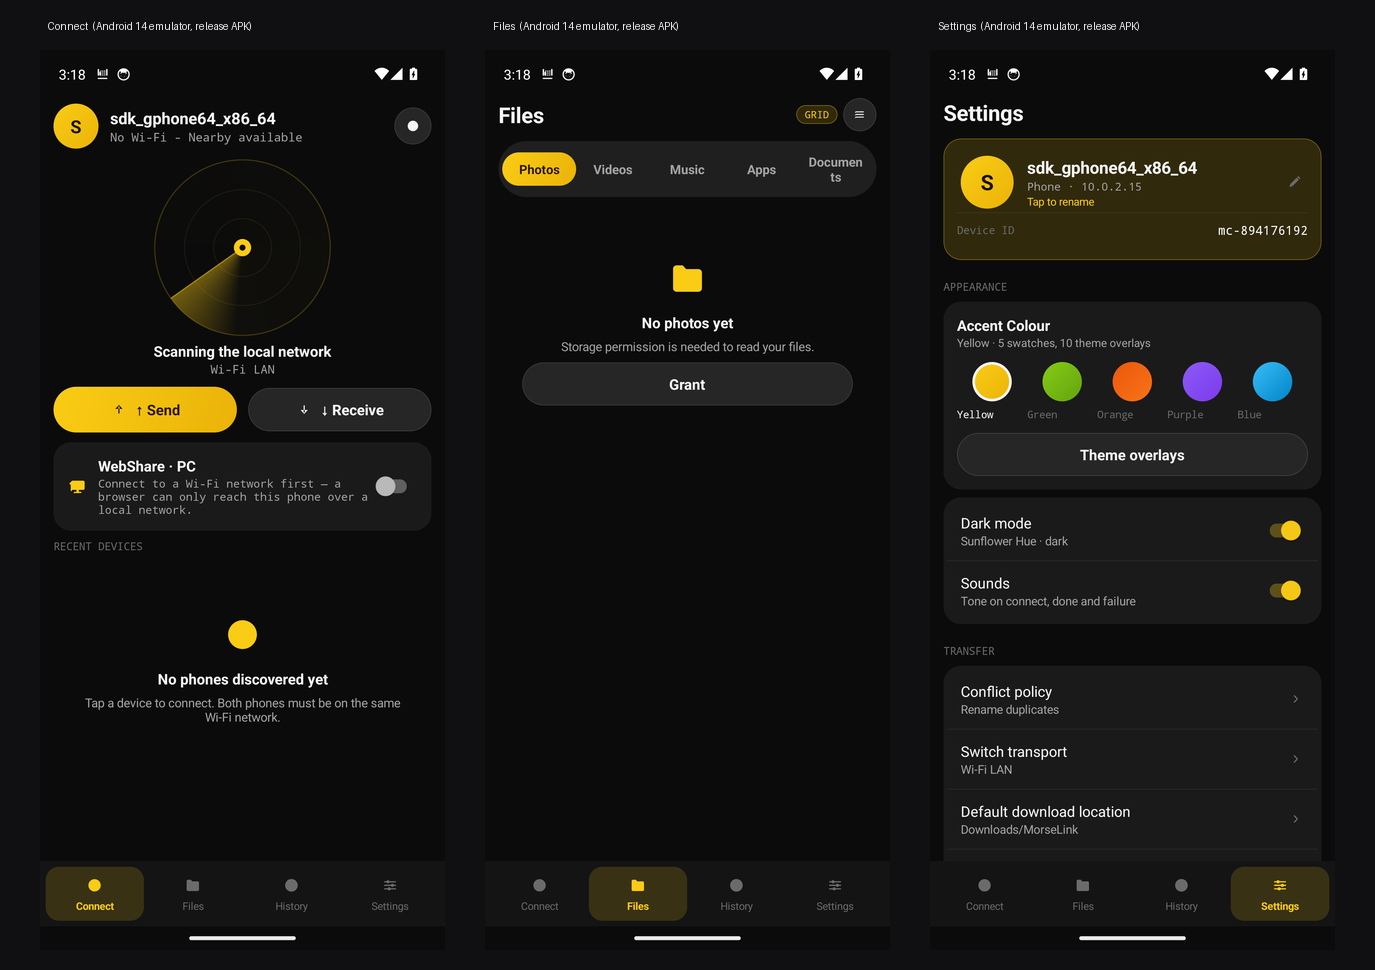
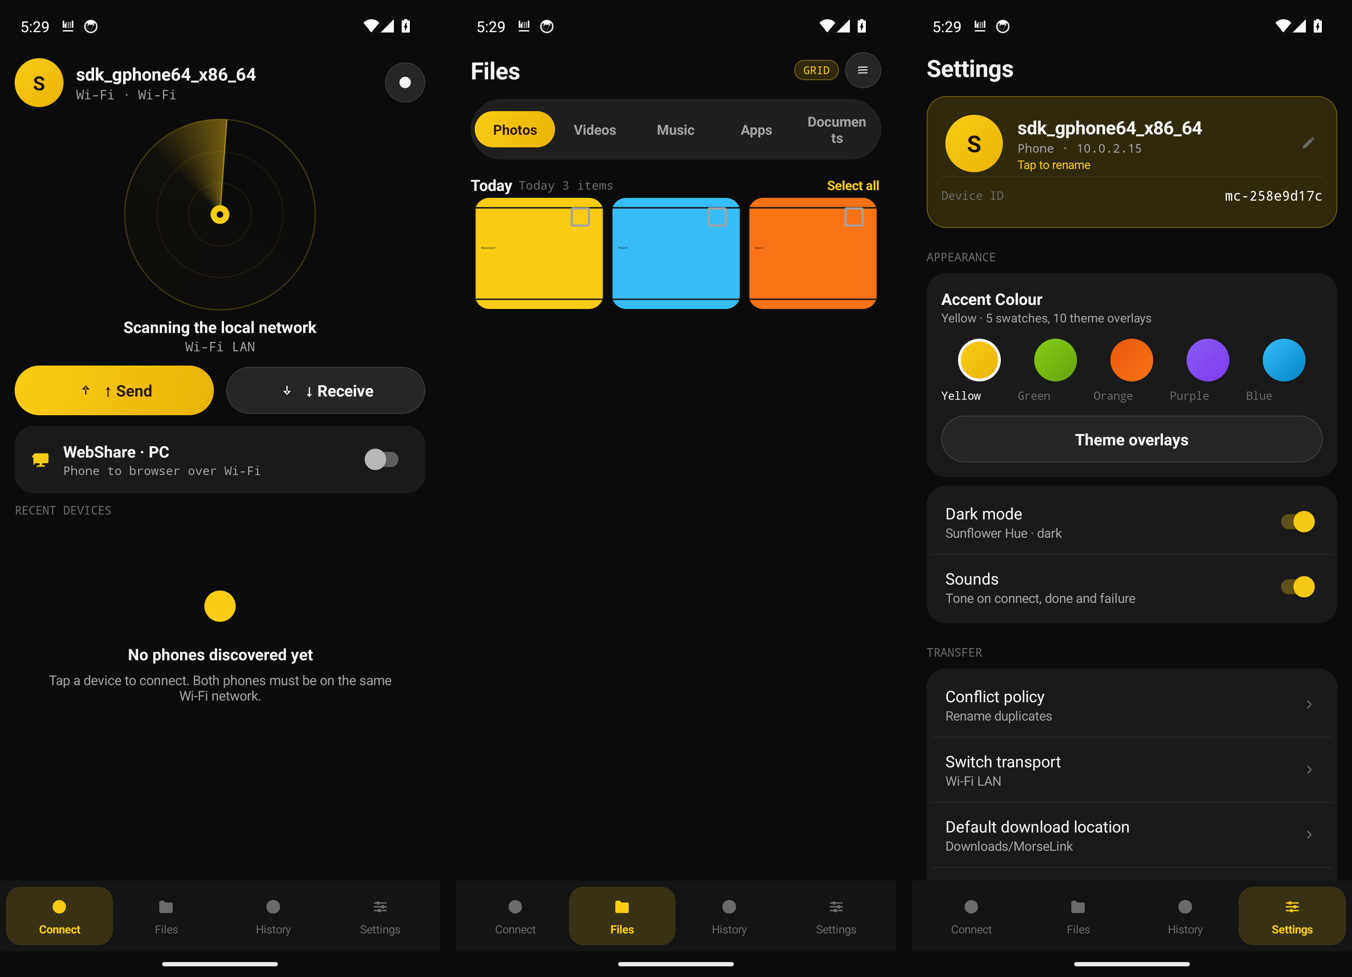
docs: record the Files-tab fix in the changelog and the gate's acceptance row
1.0.2 also fixed the cursor walk that made 'no rows' and 'an unreadable row' look the same,
and the emulator gate now asserts the grid fills (acceptance row 24 and the release notes say
so). docs/screenshots/preview-emulator.png is refreshed from the first run whose Files tab
actually rendered media: Connect, Files (Today, 3 items) and Settings side by side.

diff --git a/docs/ACCEPTANCE.md b/docs/ACCEPTANCE.md
@@ -29,7 +29,7 @@ physical phones without a debugger. Ports used: **UDP 33457** (discovery), **TCP
 | 21 | Media paging (INV-10, INV-9) | Open Files with > 2 000 photos | Grid pages in without a `LIMIT/OFFSET` in the sort string; newest day first, day groups correct, no frozen scroll. |
 | 22 | Theme + accents | Settings → pick each of the 5 accents, toggle dark/light, apply a theme overlay | Every surface recolours immediately; dark = a-series mocks, light = b-series mocks; no clipped or invisible text. |
 | 23 | Diagnostics + release hygiene | Settings → Connection Doctor / Log viewer; then check the shipped artifacts | Doctor lists Wi-Fi / peers / multicast / Bluetooth / permissions / battery with colour lights; the log tails live, exports to .txt and filters errors. The release page carries a **signed** debug APK, release APK and `.aab`, all `minSdk 21`, `targetSdk 34`, `applicationId com.morsecode.app`. |
-| 24 | Launch gate (automated) | Any push or tag | `Build & Release` builds, installs the release APK on an Android 14 emulator, opens it, walks all four tabs and fails the run on a crash, an ANR or a dead process. The screenshots are committed to `docs/screenshots/`. A red gate means no release is published. |
+| 24 | Launch gate (automated) | Any push or tag | `Build & Release` builds, installs the release APK on an Android 14 emulator, opens it, walks all four tabs and fails the run on a crash, an ANR or a dead process. It seeds the device with three photos and fails if the Files grid reports 0 items while the library holds rows (or the screen says "No photos yet" with media present) — an empty grid that used to pass silently. The screenshots are committed to `docs/screenshots/`. A red gate means no release is published. |
 
 ## How to verify the artifacts
 

diff --git a/CHANGELOG.md b/CHANGELOG.md
@@ -16,6 +16,13 @@ the artifacts were built from.
   now tries progressively plainer queries (optional columns dropped, `DATE_TAKEN` ordering replaced
   by `DATE_MODIFIED * 1000`) and remembers the one the device accepted; the sort fallback for
   `TITLE`, which the unified table also lacks, comes along with it.
+- **An empty result and an unreadable row looked the same.** `MediaLibrary.page()` walked the
+  cursor with `do { read } while (moveToNext())`, which reads row -1 before asking whether there is
+  a row at all; on an empty cursor that threw `CursorIndexOutOfBoundsException`, was caught, and
+  returned an empty list, so "the query matched nothing" could not be told apart from "the row
+  could not be read". The cursor is positioned before the loop, and the library keeps a one-line
+  account of what its query ladder did, printed by the grid:
+  `query degraded to 12 columns after 13c/DATE_TAKEN=Invalid column DATE_TAKEN; page 3 row(s)`.
 - **The empty state no longer hides a failure.** The grid logs what it got and what the library
   holds, and the Files tab names Android 14's partial-access state ("Only the photos and videos you
   selected are visible") instead of looking like a phone with no photos.
